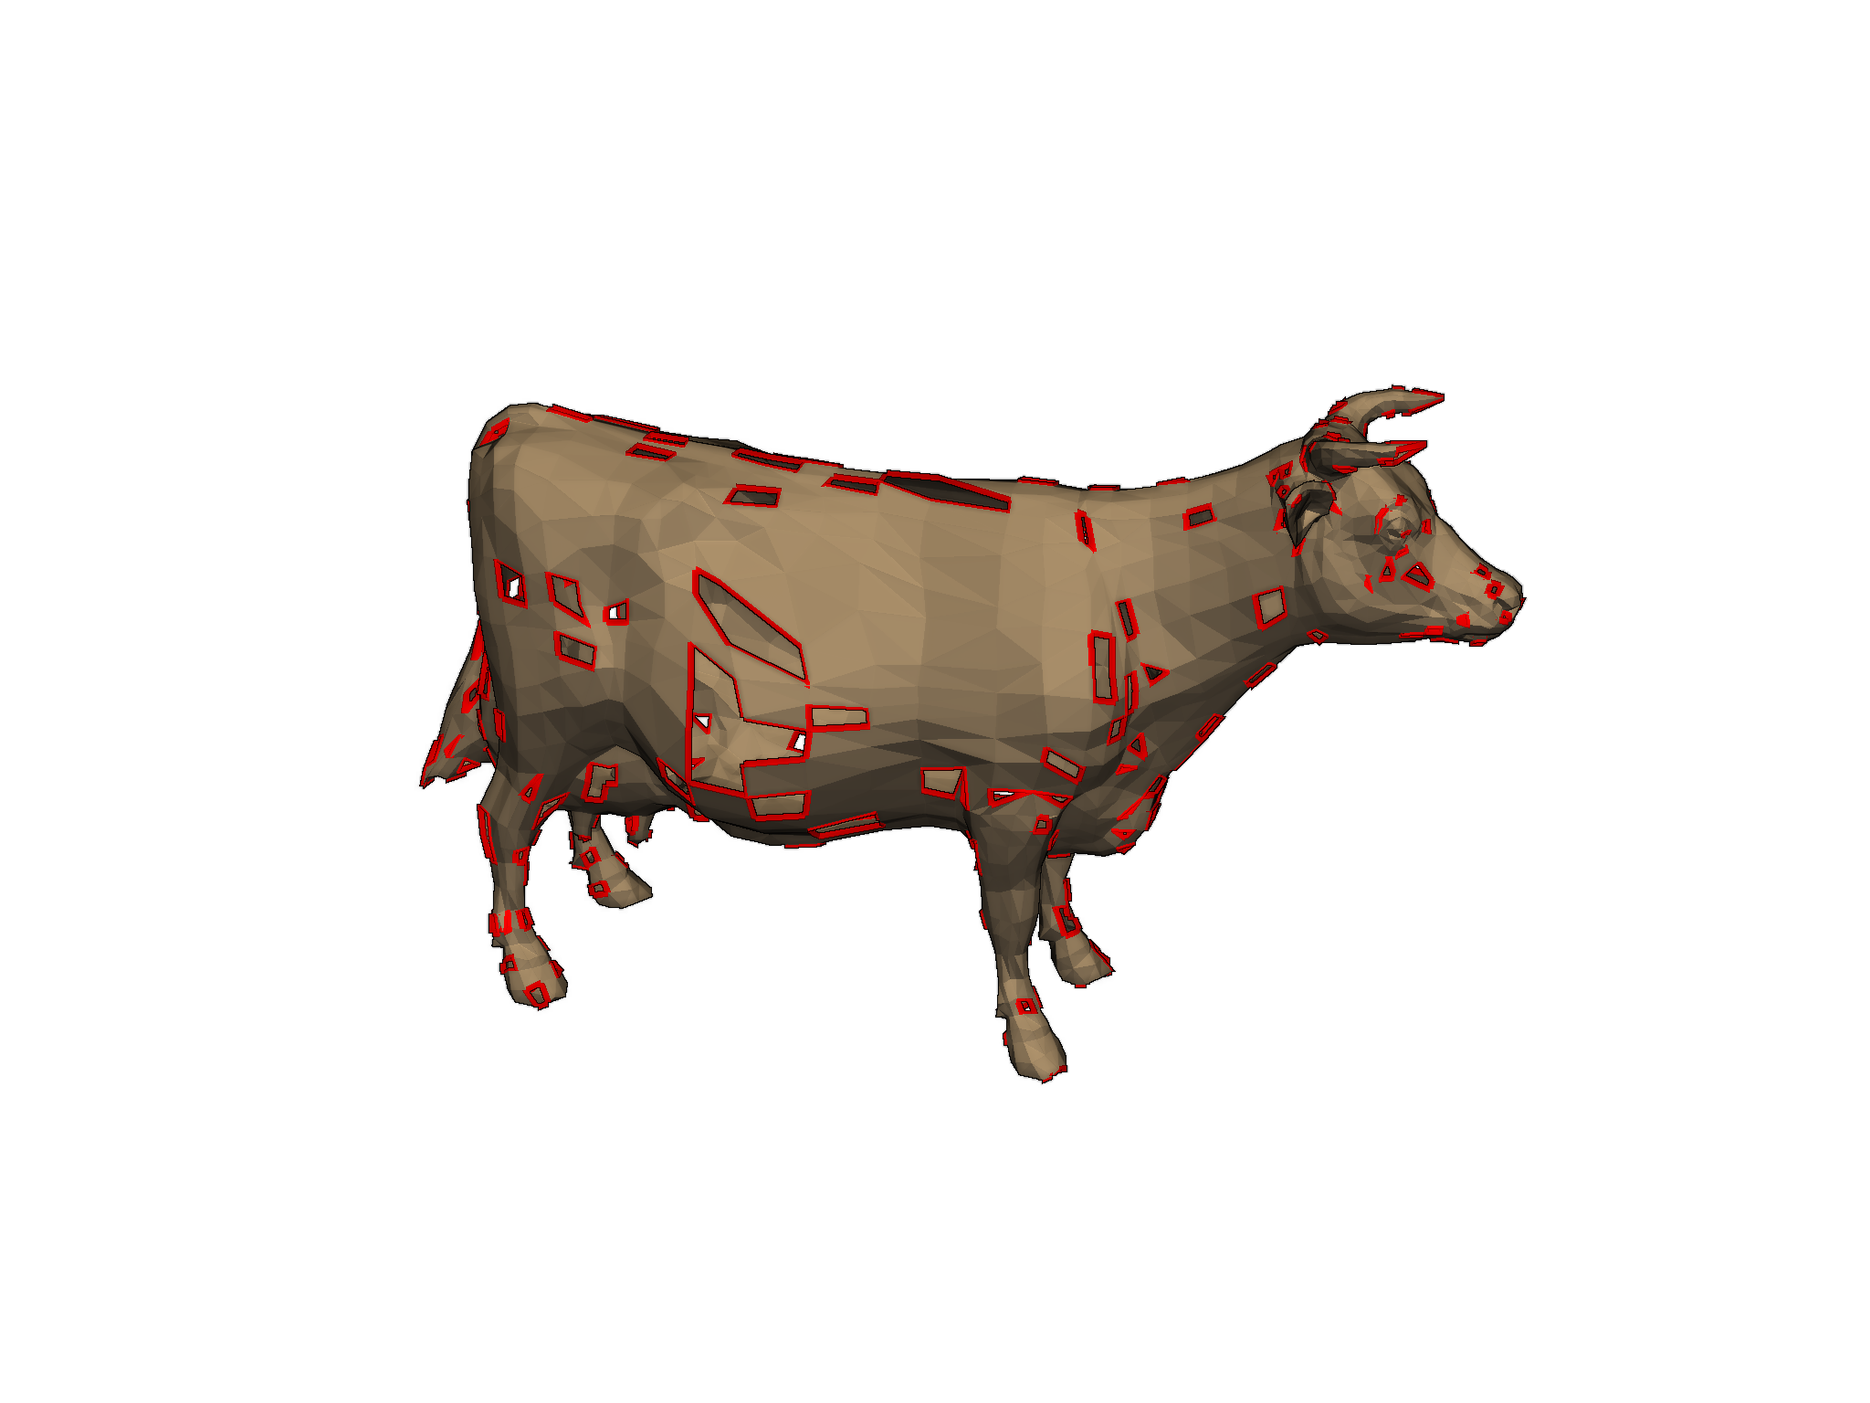
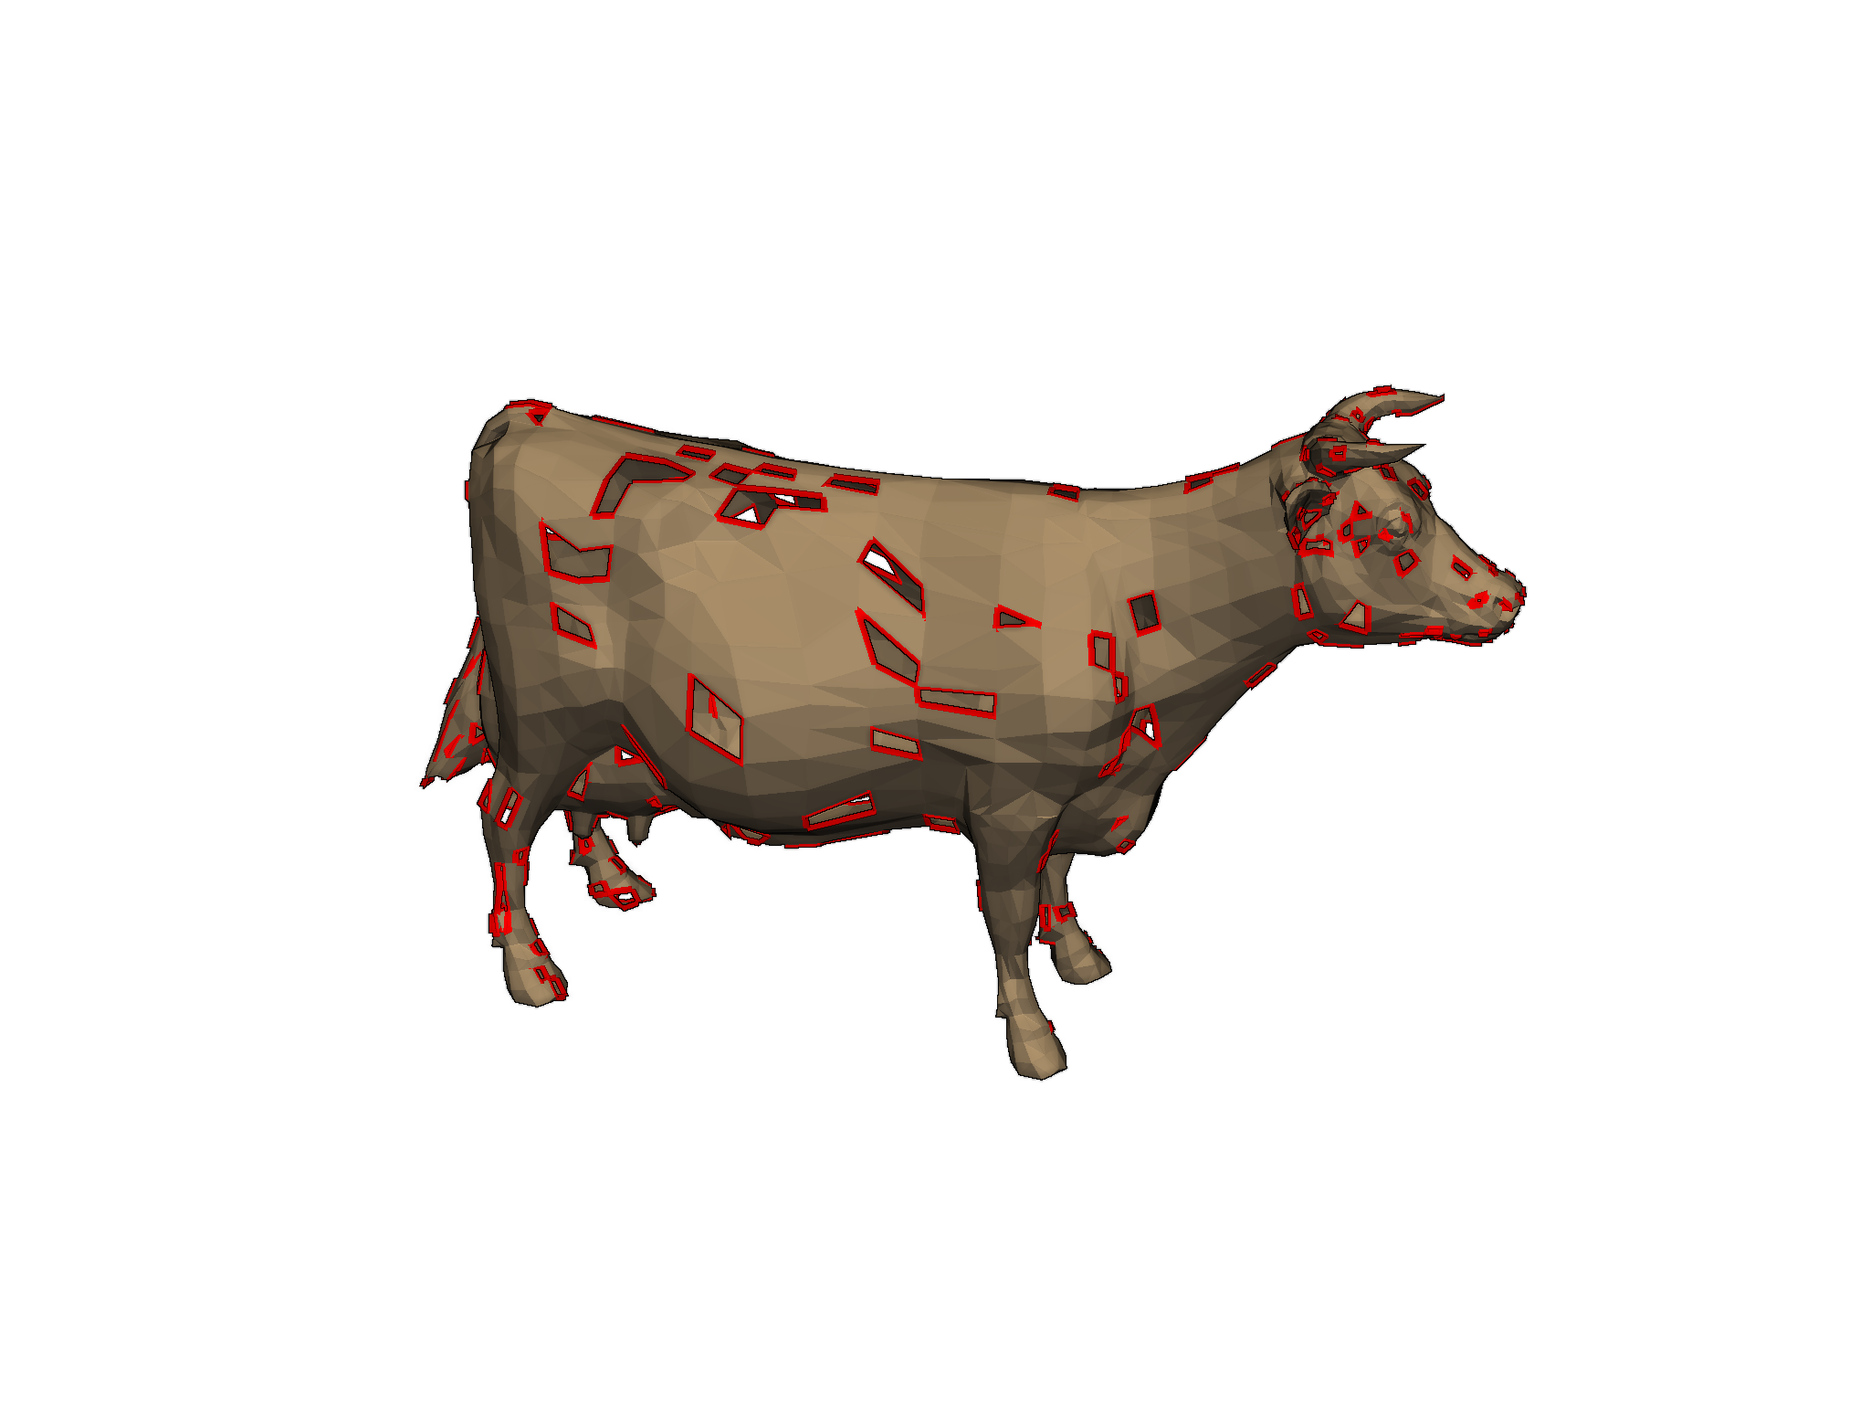
Update docs after building Travis build 50 of pyvista/pymeshfix
The docs were built from the branch 'master' against the commit
d54f96b30e2a3249cf7420531ea48975ce31666f.

The Travis build that generated this commit is at
https://travis-ci.org/pyvista/pymeshfix/jobs/538580866.

The doctr command that was run is

    /home/travis/virtualenv/python3.7.1/bin/doctr deploy --built-docs ./docs/_build/html/ .

diff --git a/searchindex.js b/searchindex.js
@@ -1,1 +1,1 @@
-Search.setIndex({docnames:["api","examples/bunny","examples/cow","examples/index","examples/sg_execution_times","examples/torso","index"],envversion:{"sphinx.domains.c":1,"sphinx.domains.changeset":1,"sphinx.domains.cpp":1,"sphinx.domains.javascript":1,"sphinx.domains.math":2,"sphinx.domains.python":1,"sphinx.domains.rst":1,"sphinx.domains.std":1,sphinx:56},filenames:["api.rst","examples/bunny.rst","examples/cow.rst","examples/index.rst","examples/sg_execution_times.rst","examples/torso.rst","index.rst"],objects:{"pymeshfix.MeshFix":{extract_holes:[0,1,1,""],load_arrays:[0,1,1,""],mesh:[0,2,1,""],plot:[0,1,1,""],repair:[0,1,1,""],save:[0,1,1,""],write:[0,1,1,""]},pymeshfix:{MeshFix:[0,0,1,""],_meshfix:[0,3,0,"-"],meshfix:[0,3,0,"-"]}},objnames:{"0":["py","class","Python class"],"1":["py","method","Python method"],"2":["py","attribute","Python attribute"],"3":["py","module","Python module"]},objtypes:{"0":"py:class","1":"py:method","2":"py:attribute","3":"py:module"},terms:{"083e":5,"0x7f64a6cfdc48":5,"0x7f64a6d130a8":2,"0x7f64a6d13b88":2,"320e":5,"442e":5,"446e":2,"624e":5,"637e":2,"680e":5,"696e":2,"701e":2,"720e":5,"760e":2,"998e":2,"case":6,"class":0,"default":0,"float":6,"import":[1,2,5,6],"new":0,"public":6,"return":[0,6],"true":[0,1,2,5],"while":6,FOR:6,One:6,The:6,There:6,_meshfix:6,abov:6,absolut:5,access:[0,6],add:2,add_mesh:[1,2,5],addit:0,again:6,agreement:6,all:[0,6],allow:6,along:5,altern:6,ani:6,appi:5,approach:6,arg:0,argument:0,arrai:[0,6],ascii:0,assum:6,attempt:[0,6],atten:[0,6],author:6,award:6,base:[0,6],been:6,befor:0,begin:0,bell:6,better:6,binari:0,bool:0,both:0,bound:[2,5,6],boundari:[0,6],bring:6,bunni:[3,4],cad:6,camera:[1,2],camera_posit:[1,2,5],can:[0,6],cannot:6,cast:2,cell:[2,5],charact:0,check:6,cite:6,clean:[0,6],clean_from_arrai:6,clean_from_fil:6,click:[1,2,5],clone:6,close:6,cnr:6,coars:6,code:[1,2,5],color:[1,2,5],com:6,commerci:6,commun:6,complex:5,compon:[0,2,5,6],comput:6,contain:0,contract:6,control:6,copi:6,correct:6,could:6,cow:[3,4],cpo:[1,2,5],cpos_ear:5,creat:6,cython:[0,6],data:0,debug:0,defect:6,defin:1,degener:6,degeneraci:[1,2,5],deprec:0,depth:[1,2,5],design:6,detail:6,digit:6,directli:6,disabl:0,disk:0,distribut:6,doi:6,download:[1,2,5],download_bunni:1,download_cow:2,download_torso:5,drive:6,dual:6,each:0,ear:5,eas:6,either:[0,6],element:6,emphas:5,enabl:0,enable_eye_dome_light:[1,2,5],ensur:5,even:6,exampl:[1,2,4,5],execut:4,extens:0,extract:[0,1,5],extract_geometri:2,extract_hol:[0,1,2,5],eye_dome_light:5,face:[0,6],fail:6,fals:0,faster:0,fclean:6,file:[0,4],filenam:0,filetyp:0,fill:6,fill_small_boundari:6,filter:5,fit:6,fix:[1,2,5],flaw:6,follow:[0,6],format:6,foundat:6,free:6,from:[0,1,2,5,6],ftype:0,full:[1,2,5],galleri:[1,2,3,5],gener:[1,2,3,5,6],git:6,github:6,gnu:6,gpl:6,hard:6,has:6,have:6,help:[1,2,5],here:[1,2,5,6],hole:[0,1,2,5,6],holei:[3,4],holy_cow:2,hope:6,how:6,http:6,idea:6,imati:6,impli:6,infer:0,infil:6,inner_loop:6,inplac:0,input:6,int32:6,interfac:0,intersect:[1,2,5,6],invert:2,ipynb:[1,2,5],isol:0,join:[0,6],join_closest_compon:6,joincomp:0,jupyt:[1,2,5],keyword:0,kwarg:0,largest:0,later:6,left:6,leverag:6,librari:6,licens:6,lightweight:6,line:0,line_width:[1,2,5],list:6,load:[0,6],load_arrai:[0,6],loadfil:6,locat:2,mai:[0,6],main:6,marco:[0,6],max_it:6,memori:6,merchant:6,mesh:[0,1,2,5,6],meshfix:[0,1,2,5,6],method:0,might:6,minut:[1,2,5],model:6,modifi:6,modul:[0,6],more:6,much:0,must:6,n_cell:2,nativ:6,ndarrai:0,nearbi:[0,6],necessari:6,need:5,nice:2,note:0,notebook:[1,2,5],numpi:[0,2,6],object:[0,6],occurr:6,one:0,open:0,option:[0,6],org:6,other:6,out:[1,2,5,6],outfil:6,outlin:[1,2,5],output:6,over:6,overridden:0,paper:6,paramet:0,part:[5,6],particular:6,patch:[1,2,5],percept:[1,2,5],perform:[0,6],perfrom:5,pip:6,pleas:6,plot:[0,1,2,5,6],plotter:[1,2,5],ply:[0,6],point:[0,2,5],polydata:[0,2,5],polygon:6,polyhedr:5,polyhedron:6,portabl:6,posit:1,present:6,print:[0,2,5,6],process:0,produc:6,program:6,proper:6,publish:6,purpos:6,pymeshfix:[0,1,2,5],pypi:6,python:[0,1,2,5,6],pytmesh:6,pyvista:[0,1,2,5,6],rand:2,random:2,raw:6,reach:6,read:6,readi:1,reason:6,redistribut:6,refer:6,region:6,remov:[0,2,5,6],remove_smallest_compon:0,render:[1,2],repair:[0,1,2,5,6],repres:6,requir:6,research:6,reserv:6,result:[2,6],return_arrai:6,right:6,run:[1,2,5,6],s00371:6,same:6,save:[0,6],save_fil:6,scalar:[2,5],script:[1,2,5],second:[1,2,5],see:6,self:6,set:6,should:[0,6],show:[0,1,2,5],show_edg:5,show_hol:0,simpl:0,simpli:5,singl:6,singular:6,small:[2,5],softwar:6,solid:6,sort:6,sourc:[1,2,5,6],specif:6,specifi:0,speed:6,sphinx:[1,2,3,5],sphinx_gallery_thumbnail_numb:[1,2,5],springer:6,stl:0,str:0,string:0,subtl:5,surfac:[0,6],take:6,term:6,tessel:6,test:6,tetrahedr:0,than:0,thei:6,them:0,therefor:6,therein:6,thi:[0,5,6],three:0,threshold:2,thu:6,tight:5,time:[1,2,5],tin:6,tmesh:6,torso:[3,4],total:[1,2,4,5],tri_filt:[2,5],triangl:[5,6],triangul:2,triangular:0,txt:6,type:0,typic:6,unavail:6,under:6,understand:6,unless:0,unmodifi:6,updat:0,use:6,used:6,useful:6,user:6,uses:6,using:[0,6],vclean:6,verbos:[0,1,2,5],version:6,vertex:[0,6],view:6,visual:6,vtk:0,vtkinterfac:6,warranti:6,water:5,watertight:6,where:[5,6],whistl:6,win:6,wish:6,with_vtk:6,within:6,wonder:6,work:6,wrap:0,wrapper:[0,6],write:[0,6],written:0,www:6,xyz:0,you:6,your:6},titles:["API Reference","Bunny","Holey Cow","Examples","Computation times","Torso","PyMeshFix"],titleterms:{algorithm:6,api:0,bunni:1,citat:6,complet:6,comput:4,copyright:6,cow:2,depend:6,easi:6,exampl:[3,6],holei:2,instal:6,polici:6,pymeshfix:6,refer:0,time:4,torso:5,vtk:6,without:6}})
+Search.setIndex({docnames:["api","examples/bunny","examples/cow","examples/index","examples/sg_execution_times","examples/torso","index"],envversion:{"sphinx.domains.c":1,"sphinx.domains.changeset":1,"sphinx.domains.cpp":1,"sphinx.domains.javascript":1,"sphinx.domains.math":2,"sphinx.domains.python":1,"sphinx.domains.rst":1,"sphinx.domains.std":1,sphinx:56},filenames:["api.rst","examples/bunny.rst","examples/cow.rst","examples/index.rst","examples/sg_execution_times.rst","examples/torso.rst","index.rst"],objects:{"pymeshfix.MeshFix":{extract_holes:[0,1,1,""],load_arrays:[0,1,1,""],mesh:[0,2,1,""],plot:[0,1,1,""],repair:[0,1,1,""],save:[0,1,1,""],write:[0,1,1,""]},pymeshfix:{MeshFix:[0,0,1,""],_meshfix:[0,3,0,"-"],meshfix:[0,3,0,"-"]}},objnames:{"0":["py","class","Python class"],"1":["py","method","Python method"],"2":["py","attribute","Python attribute"],"3":["py","module","Python module"]},objtypes:{"0":"py:class","1":"py:method","2":"py:attribute","3":"py:module"},terms:{"083e":5,"0x7f2a771ce8e8":2,"0x7f2a771cea68":2,"0x7f2a771cee88":5,"320e":5,"442e":5,"446e":2,"624e":5,"637e":2,"680e":5,"696e":2,"701e":2,"720e":5,"760e":2,"998e":2,"case":6,"class":0,"default":0,"float":6,"import":[1,2,5,6],"new":0,"public":6,"return":[0,6],"true":[0,1,2,5],"while":6,FOR:6,One:6,The:6,There:6,_meshfix:6,abov:6,absolut:5,access:[0,6],add:2,add_mesh:[1,2,5],addit:0,again:6,agreement:6,all:[0,6],allow:6,along:5,altern:6,ani:6,appi:5,approach:6,arg:0,argument:0,arrai:[0,6],ascii:0,assum:6,attempt:[0,6],atten:[0,6],author:6,award:6,base:[0,6],been:6,befor:0,begin:0,bell:6,better:6,binari:0,bool:0,both:0,bound:[2,5,6],boundari:[0,6],bring:6,bunni:[3,4],cad:6,camera:[1,2],camera_posit:[1,2,5],can:[0,6],cannot:6,cast:2,cell:[2,5],charact:0,check:6,cite:6,clean:[0,6],clean_from_arrai:6,clean_from_fil:6,click:[1,2,5],clone:6,close:6,cnr:6,coars:6,code:[1,2,5],color:[1,2,5],com:6,commerci:6,commun:6,complex:5,compon:[0,5,6],comput:6,contain:0,contract:6,control:6,copi:6,correct:6,could:6,cow:[3,4],cpo:[1,2,5],cpos_ear:5,creat:6,cython:[0,6],data:0,debug:0,defect:6,defin:1,degener:6,degeneraci:[1,2,5],deprec:0,depth:[1,2,5],design:6,detail:6,digit:6,directli:6,disabl:0,disk:0,distribut:6,doi:6,download:[1,2,5],download_bunni:1,download_cow:2,download_torso:5,drive:6,dual:6,each:0,ear:5,eas:6,either:[0,6],element:6,emphas:5,enabl:0,enable_eye_dome_light:[1,2,5],ensur:5,even:6,exampl:[1,2,4,5],execut:4,extens:0,extract:[0,1,5],extract_geometri:2,extract_hol:[0,1,2,5],eye_dome_light:5,face:[0,6],fail:6,fals:0,faster:0,fclean:6,file:[0,4],filenam:0,filetyp:0,fill:6,fill_small_boundari:6,filter:5,fit:6,fix:[1,2,5],flaw:6,follow:[0,6],format:6,foundat:6,free:6,from:[0,1,2,5,6],ftype:0,full:[1,2,5],galleri:[1,2,3,5],gener:[1,2,3,5,6],git:6,github:6,gnu:6,gpl:6,hard:6,has:6,have:6,help:[1,2,5],here:[1,2,5,6],hole:[0,1,2,5,6],holei:[3,4],holy_cow:2,hope:6,how:6,http:6,idea:6,imati:6,impli:6,infer:0,infil:6,inner_loop:6,inplac:0,input:6,int32:6,interfac:0,intersect:[1,2,5,6],invert:2,ipynb:[1,2,5],isol:0,join:[0,6],join_closest_compon:6,joincomp:0,jupyt:[1,2,5],keyword:0,kwarg:0,largest:0,later:6,left:6,leverag:6,librari:6,licens:6,lightweight:6,line:0,line_width:[1,2,5],list:6,load:[0,6],load_arrai:[0,6],loadfil:6,locat:2,mai:[0,6],main:6,marco:[0,6],max_it:6,memori:6,merchant:6,mesh:[0,1,2,5,6],meshfix:[0,1,2,5,6],method:0,might:6,minut:[1,2,5],model:6,modifi:6,modul:[0,6],more:6,much:0,must:6,n_cell:2,nativ:6,ndarrai:0,nearbi:[0,6],necessari:6,need:5,nice:2,note:0,notebook:[1,2,5],numpi:[0,2,6],object:[0,6],occurr:6,one:0,open:0,option:[0,6],org:6,other:6,out:[1,2,5,6],outfil:6,outlin:[1,2,5],output:6,over:6,overridden:0,paper:6,paramet:0,part:[5,6],particular:6,patch:[1,2,5],percept:[1,2,5],perform:[0,6],perfrom:5,pip:6,pleas:6,plot:[0,1,2,5,6],plotter:[1,2,5],ply:[0,6],point:[0,2,5],polydata:[0,2,5],polygon:6,polyhedr:5,polyhedron:6,portabl:6,posit:1,present:6,print:[0,2,5,6],process:0,produc:6,program:6,proper:6,publish:6,purpos:6,pymeshfix:[0,1,2,5],pypi:6,python:[0,1,2,5,6],pytmesh:6,pyvista:[0,1,2,5,6],rand:2,random:2,raw:6,reach:6,read:6,readi:1,reason:6,redistribut:6,refer:6,region:6,remov:[0,5,6],remove_smallest_compon:0,render:[1,2],repair:[0,1,2,5,6],repres:6,requir:6,research:6,reserv:6,result:[2,6],return_arrai:6,right:6,run:[1,2,5,6],s00371:6,same:6,save:[0,6],save_fil:6,scalar:[2,5],script:[1,2,5],second:[1,2,5],see:6,self:6,set:6,should:[0,6],show:[0,1,2,5],show_edg:5,show_hol:0,simpl:0,simpli:5,singl:6,singular:6,small:5,softwar:6,solid:6,sort:6,sourc:[1,2,5,6],specif:6,specifi:0,speed:6,sphinx:[1,2,3,5],sphinx_gallery_thumbnail_numb:[1,2,5],springer:6,stl:0,str:0,string:0,subtl:5,surfac:[0,6],take:6,term:6,tessel:6,test:6,tetrahedr:0,than:0,thei:6,them:0,therefor:6,therein:6,thi:[0,5,6],three:0,threshold:2,thu:6,tight:5,time:[1,2,5],tin:6,tmesh:6,torso:[3,4],total:[1,2,4,5],tri_filt:[2,5],triangl:[5,6],triangul:2,triangular:0,txt:6,type:0,typic:6,unavail:6,under:6,understand:6,unless:0,unmodifi:6,updat:0,use:6,used:6,useful:6,user:6,uses:6,using:[0,6],vclean:6,verbos:[0,1,2,5],version:6,vertex:[0,6],view:6,visual:6,vtk:0,vtkinterfac:6,warranti:6,water:5,watertight:6,where:[5,6],whistl:6,win:6,wish:6,with_vtk:6,within:6,wonder:6,work:6,wrap:0,wrapper:[0,6],write:[0,6],written:0,www:6,xyz:0,you:6,your:6},titles:["API Reference","Bunny","Holey Cow","Examples","Computation times","Torso","PyMeshFix"],titleterms:{algorithm:6,api:0,bunni:1,citat:6,complet:6,comput:4,copyright:6,cow:2,depend:6,easi:6,exampl:[3,6],holei:2,instal:6,polici:6,pymeshfix:6,refer:0,time:4,torso:5,vtk:6,without:6}})

diff --git a/examples/cow.html b/examples/cow.html
@@ -223,8 +223,8 @@
 </pre></div>
 </div>
 <p class="sphx-glr-script-out">Out:</p>
-<div class="sphx-glr-script-out highlight-none notranslate"><div class="highlight"><pre><span></span>PolyData (0x7f64a6d13b88)
-  N Cells:      5262
+<div class="sphx-glr-script-out highlight-none notranslate"><div class="highlight"><pre><span></span>PolyData (0x7f2a771ce8e8)
+  N Cells:      5216
   N Points:     2903
   X Bounds:     -4.446e+00, 5.998e+00
   Y Bounds:     -3.637e+00, 2.760e+00
@@ -255,9 +255,8 @@
 </pre></div>
 </div>
 <p class="sphx-glr-script-out">Out:</p>
-<div class="sphx-glr-script-out highlight-none notranslate"><div class="highlight"><pre><span></span>Removed 1 small components
-Patching holes...
-Patched 205 holes
+<div class="sphx-glr-script-out highlight-none notranslate"><div class="highlight"><pre><span></span>Patching holes...
+Patched 203 holes
 Fixing degeneracies and intersections
 </pre></div>
 </div>
@@ -267,9 +266,9 @@ Fixing degeneracies and intersections
 </pre></div>
 </div>
 <p class="sphx-glr-script-out">Out:</p>
-<div class="sphx-glr-script-out highlight-none notranslate"><div class="highlight"><pre><span></span>PolyData (0x7f64a6d130a8)
-  N Cells:      5446
-  N Points:     2725
+<div class="sphx-glr-script-out highlight-none notranslate"><div class="highlight"><pre><span></span>PolyData (0x7f2a771cea68)
+  N Cells:      5452
+  N Points:     2728
   X Bounds:     -3.696e+00, 5.998e+00
   Y Bounds:     -3.637e+00, 2.760e+00
   Z Bounds:     -1.701e+00, 1.701e+00
@@ -280,7 +279,7 @@ Fixing degeneracies and intersections
 </pre></div>
 </div>
 <img alt="../_images/sphx_glr_cow_002.png" class="sphx-glr-single-img" src="../_images/sphx_glr_cow_002.png" />
-<p class="sphx-glr-timing"><strong>Total running time of the script:</strong> ( 0 minutes  5.570 seconds)</p>
+<p class="sphx-glr-timing"><strong>Total running time of the script:</strong> ( 0 minutes  5.368 seconds)</p>
 <div class="sphx-glr-footer class sphx-glr-footer-example docutils container" id="sphx-glr-download-examples-cow-py">
 <div class="sphx-glr-download docutils container">
 <p><a class="reference download internal" download="" href="../_downloads/700f1bf357ea69088c0a34b0aa306d26/cow.py"><code class="xref download docutils literal notranslate"><span class="pre">Download</span> <span class="pre">Python</span> <span class="pre">source</span> <span class="pre">code:</span> <span class="pre">cow.py</span></code></a></p>

diff --git a/examples/sg_execution_times.html b/examples/sg_execution_times.html
@@ -193,11 +193,11 @@
             
   <div class="section" id="computation-times">
 <span id="sphx-glr-examples-sg-execution-times"></span><h1>Computation times<a class="headerlink" href="#computation-times" title="Permalink to this headline">¶</a></h1>
-<p><strong>01:14.130</strong> total execution time for <strong>examples</strong> files:</p>
+<p><strong>00:36.595</strong> total execution time for <strong>examples</strong> files:</p>
 <ul class="simple">
-<li><p><strong>00:51.322</strong>: <a class="reference internal" href="bunny.html#sphx-glr-examples-bunny-py"><span class="std std-ref">Bunny</span></a> (<code class="docutils literal notranslate"><span class="pre">bunny.py</span></code>)</p></li>
-<li><p><strong>00:17.238</strong>: <a class="reference internal" href="torso.html#sphx-glr-examples-torso-py"><span class="std std-ref">Torso</span></a> (<code class="docutils literal notranslate"><span class="pre">torso.py</span></code>)</p></li>
-<li><p><strong>00:05.570</strong>: <a class="reference internal" href="cow.html#sphx-glr-examples-cow-py"><span class="std std-ref">Holey Cow</span></a> (<code class="docutils literal notranslate"><span class="pre">cow.py</span></code>)</p></li>
+<li><p><strong>00:17.194</strong>: <a class="reference internal" href="torso.html#sphx-glr-examples-torso-py"><span class="std std-ref">Torso</span></a> (<code class="docutils literal notranslate"><span class="pre">torso.py</span></code>)</p></li>
+<li><p><strong>00:14.034</strong>: <a class="reference internal" href="bunny.html#sphx-glr-examples-bunny-py"><span class="std std-ref">Bunny</span></a> (<code class="docutils literal notranslate"><span class="pre">bunny.py</span></code>)</p></li>
+<li><p><strong>00:05.368</strong>: <a class="reference internal" href="cow.html#sphx-glr-examples-cow-py"><span class="std std-ref">Holey Cow</span></a> (<code class="docutils literal notranslate"><span class="pre">cow.py</span></code>)</p></li>
 </ul>
 </div>
 

diff --git a/examples/torso.html b/examples/torso.html
@@ -219,7 +219,7 @@ parts of the mesh</p>
 </pre></div>
 </div>
 <p class="sphx-glr-script-out">Out:</p>
-<div class="sphx-glr-script-out highlight-none notranslate"><div class="highlight"><pre><span></span>PolyData (0x7f64a6cfdc48)
+<div class="sphx-glr-script-out highlight-none notranslate"><div class="highlight"><pre><span></span>PolyData (0x7f2a771cee88)
   N Cells:      12448
   N Points:     12015
   X Bounds:     -1.680e+02, 1.720e+02
@@ -282,7 +282,7 @@ Fixing degeneracies and intersections
 </pre></div>
 </div>
 <img alt="../_images/sphx_glr_torso_004.png" class="sphx-glr-single-img" src="../_images/sphx_glr_torso_004.png" />
-<p class="sphx-glr-timing"><strong>Total running time of the script:</strong> ( 0 minutes  17.238 seconds)</p>
+<p class="sphx-glr-timing"><strong>Total running time of the script:</strong> ( 0 minutes  17.194 seconds)</p>
 <div class="sphx-glr-footer class sphx-glr-footer-example docutils container" id="sphx-glr-download-examples-torso-py">
 <div class="sphx-glr-download docutils container">
 <p><a class="reference download internal" download="" href="../_downloads/988781b05954ec5068adbfe7a980b827/torso.py"><code class="xref download docutils literal notranslate"><span class="pre">Download</span> <span class="pre">Python</span> <span class="pre">source</span> <span class="pre">code:</span> <span class="pre">torso.py</span></code></a></p>

diff --git a/examples/bunny.html b/examples/bunny.html
@@ -255,7 +255,7 @@ Fixing degeneracies and intersections
 </pre></div>
 </div>
 <img alt="../_images/sphx_glr_bunny_003.png" class="sphx-glr-single-img" src="../_images/sphx_glr_bunny_003.png" />
-<p class="sphx-glr-timing"><strong>Total running time of the script:</strong> ( 0 minutes  51.322 seconds)</p>
+<p class="sphx-glr-timing"><strong>Total running time of the script:</strong> ( 0 minutes  14.034 seconds)</p>
 <div class="sphx-glr-footer class sphx-glr-footer-example docutils container" id="sphx-glr-download-examples-bunny-py">
 <div class="sphx-glr-download docutils container">
 <p><a class="reference download internal" download="" href="../_downloads/81a10a6450959c49a589aa8cee630836/bunny.py"><code class="xref download docutils literal notranslate"><span class="pre">Download</span> <span class="pre">Python</span> <span class="pre">source</span> <span class="pre">code:</span> <span class="pre">bunny.py</span></code></a></p>
